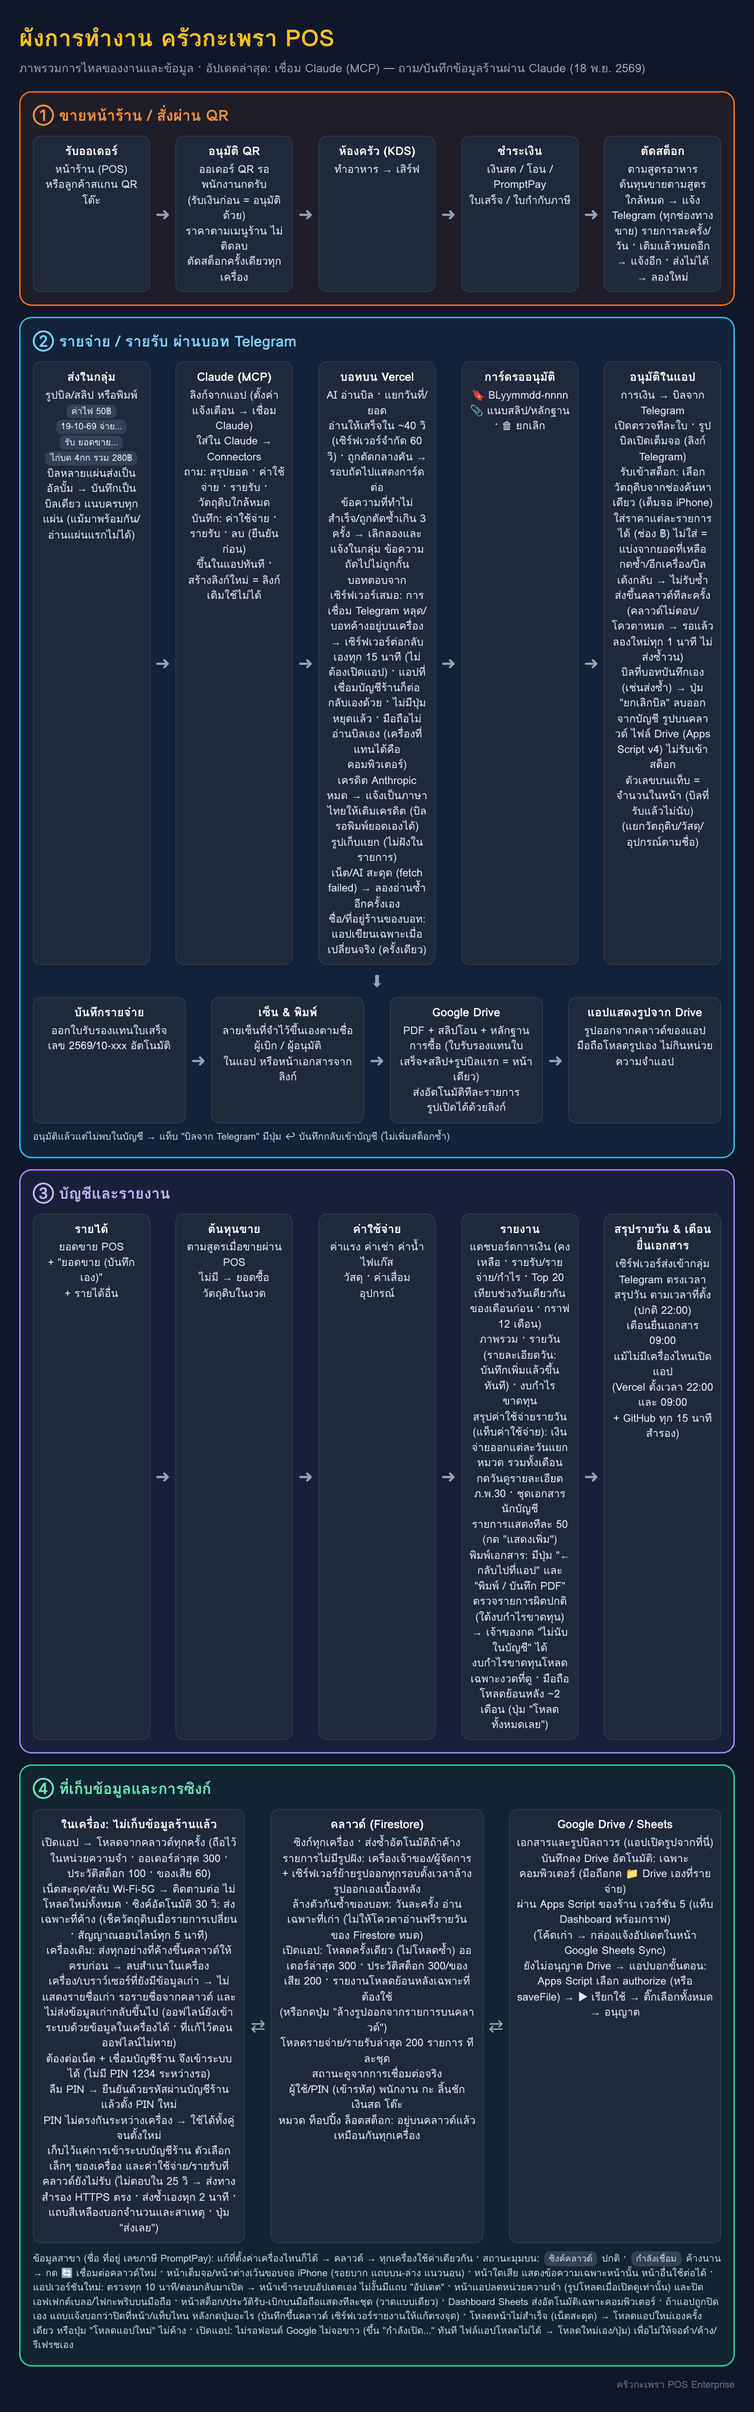
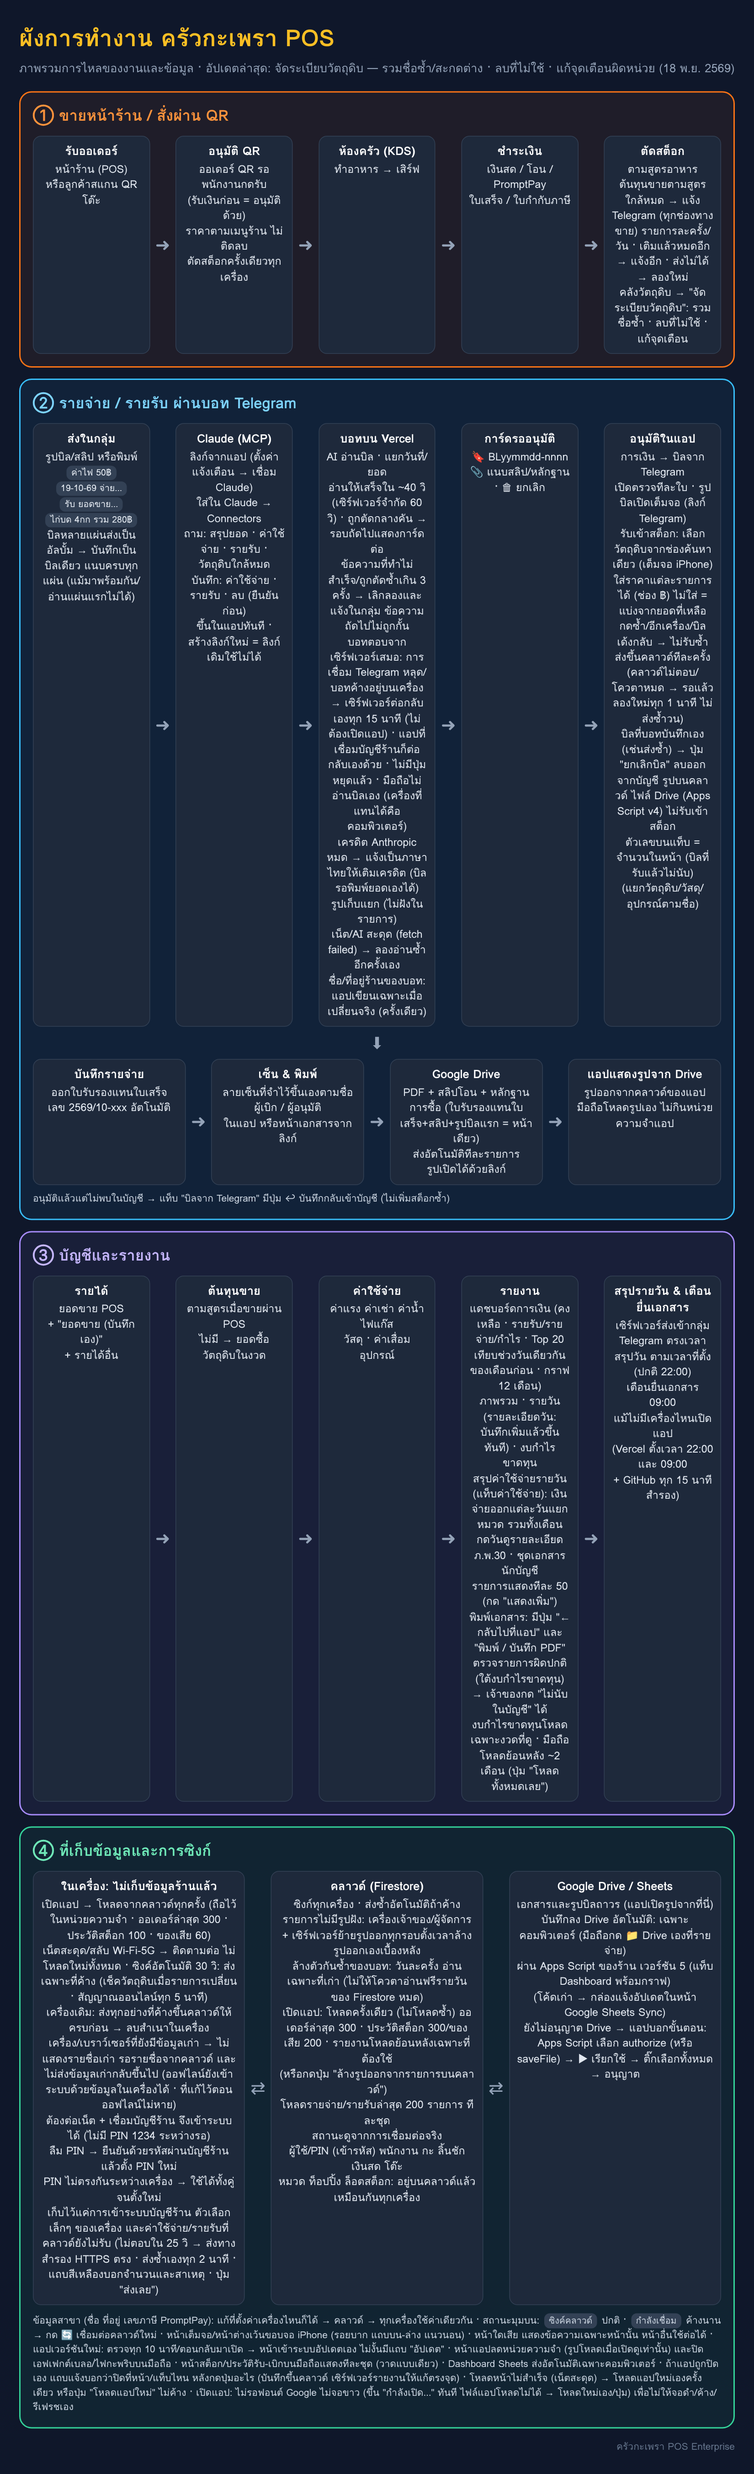
Tidy the ingredient list: merge names spelled several ways, remove unused items, fix odd alert levels
The low-stock list had 30 items, many of them sample ingredients with no
stock and the same product entered several ways from bills
(ยัวร์ไซค์/ยัวร์ไซซ์/ยัวร์ไซด์), plus alert levels that do not fit the
unit (5 g). A 'จัดระเบียบวัตถุดิบ' panel on the stock page (managers)
groups probable duplicates (one name in the other, or a few letters
apart, same kind of unit) and merges them with the existing merge
(stock added, recipes moved), lists items with no stock that no recipe,
topping or prep recipe uses to remove, and lists alert levels to fix.

Claude-Session: https://claude.ai/code/session_01Gq3UvYW4wv3hsVCXoh5wxy

diff --git a/src/components/inventory/IngredientCleanupPanel.tsx b/src/components/inventory/IngredientCleanupPanel.tsx
@@ -1,0 +1,161 @@
+import React, { useMemo, useState } from 'react';
+import { ChevronDown, GitMerge, Sparkles, Trash2 } from 'lucide-react';
+import { usePOS } from '../../context/POSContext';
+import { useKeyedList } from '../../hooks/useKeyedList';
+import type { PrepRecipe } from '../../types';
+import { duplicateGroups, oddAlertLevels, unusedIngredients, usedIngredientIds } from '../../utils/ingredientCleanup';
+
+const fmt = (n: number) => (Number.isFinite(n) ? n.toLocaleString('th-TH', { maximumFractionDigits: 2 }) : '0');
+
+/**
+ * จัดระเบียบวัตถุดิบ: names entered several ways merged into one (stock added together, recipes
+ * moved over), unused items without stock removed, and alert levels that do not fit the unit fixed.
+ */
+export const IngredientCleanupPanel: React.FC = () => {
+  const { ingredients, menuItems, addOns, mergeIngredients, deleteIngredients, updateIngredient, currentUser } = usePOS();
+  const [recipes] = useKeyedList<PrepRecipe>('prep_recipes', 'POS_PREP_RECIPES', undefined);
+  const [open, setOpen] = useState(false);
+  const [keep, setKeep] = useState<Record<string, string>>({});
+  const [picked, setPicked] = useState<Set<string>>(new Set());
+  const [alerts, setAlerts] = useState<Record<string, string>>({});
+  const [message, setMessage] = useState<{ ok: boolean; text: string } | null>(null);
+  const canEdit = currentUser?.role === 'admin' || currentUser?.role === 'manager';
+
+  const used = useMemo(() => usedIngredientIds(menuItems, addOns, recipes), [menuItems, addOns, recipes]);
+  const groups = useMemo(() => duplicateGroups(ingredients, used), [ingredients, used]);
+  const unused = useMemo(() => unusedIngredients(ingredients, used), [ingredients, used]);
+  const odd = useMemo(() => oddAlertLevels(ingredients), [ingredients]);
+  const total = groups.length + unused.length + odd.length;
+  if (!canEdit) return null;
+
+  const mergeGroup = (groupKey: string, members: typeof ingredients) => {
+    const keepId = keep[groupKey] || members[0].id;
+    const target = members.find(m => m.id === keepId)!;
+    // One at a time (each merge works from the list as it is after the one before)
+    const next = members.find(m => m.id !== keepId);
+    if (!next) return;
+    if (!window.confirm(`รวม "${next.name}" เข้ากับ "${target.name}"?\nสต็อกบวกรวมกัน สูตรเมนูที่ใช้ "${next.name}" เปลี่ยนไปใช้ "${target.name}" แล้วลบ "${next.name}"`)) return;
+    const res = mergeIngredients(target.id, next.id);
+    setMessage(res.ok ? { ok: true, text: `รวม "${next.name}" เข้ากับ "${target.name}" แล้ว${members.length > 2 ? ' (กดรวมต่อสำหรับรายการที่เหลือ)' : ''}` } : { ok: false, text: res.error || 'รวมไม่สำเร็จ' });
+  };
+
+  const removePicked = () => {
+    const ids = unused.filter(i => picked.has(i.id)).map(i => i.id);
+    if (!ids.length) return;
+    if (!window.confirm(`ลบวัตถุดิบ ${ids.length} รายการ? (ไม่มีสต็อกและไม่มีสูตรเมนูใช้)`)) return;
+    deleteIngredients(ids);
+    setPicked(new Set());
+    setMessage({ ok: true, text: `ลบวัตถุดิบที่ไม่ใช้แล้ว ${ids.length} รายการ` });
+  };
+
+  const saveAlert = (id: string) => {
+    const ing = ingredients.find(i => i.id === id);
+    const value = Number(alerts[id]);
+    if (!ing || !Number.isFinite(value) || value < 0) return;
+    updateIngredient({ ...ing, minStockAlert: value });
+    setMessage({ ok: true, text: `ตั้งจุดเตือน "${ing.name}" เป็น ${fmt(value)} ${ing.unit} แล้ว` });
+  };
+
+  return (
+    <section className="bg-slate-900 border border-amber-700/40 rounded-2xl text-xs text-slate-200" aria-label="จัดระเบียบวัตถุดิบ">
+      <button type="button" onClick={() => setOpen(o => !o)} aria-expanded={open} className="w-full p-3.5 flex items-center gap-2 text-left min-h-[48px]">
+        <Sparkles className={`w-5 h-5 ${total ? 'text-amber-400' : 'text-emerald-400'}`} />
+        <span className="flex-1 font-bold text-sm">
+          {total ? `จัดระเบียบวัตถุดิบ: ชื่อซ้ำ ${groups.length} กลุ่ม · ไม่ได้ใช้ ${unused.length} · จุดเตือนแปลก ${odd.length}` : 'รายการวัตถุดิบเรียบร้อย'}
+        </span>
+        <ChevronDown className={`w-4 h-4 transition ${open ? 'rotate-180' : ''}`} />
+      </button>
+      {open && (
+        <div className="px-3.5 pb-3.5 space-y-4">
+          {message && <div className={`p-2 rounded-lg border ${message.ok ? 'border-emerald-700/50 text-emerald-200' : 'border-rose-700/50 text-rose-200'}`}>{message.text}</div>}
+
+          {groups.length > 0 && (
+            <div className="space-y-2">
+              <div className="font-bold text-amber-200">1. ชื่อที่น่าจะเป็นของเดียวกัน (เลือกชื่อที่จะเก็บ แล้วกดรวม)</div>
+              {groups.map(g => {
+                const key = g.map(i => i.id).sort().join('|');
+                const keepId = keep[key] || g[0].id;
+                return (
+                  <div key={key} className="p-2.5 rounded-xl bg-slate-950 border border-slate-800 space-y-1.5">
+                    {g.map(i => (
+                      <label key={i.id} className="flex items-center gap-2 min-h-[32px]">
+                        <input type="radio" name={key} checked={keepId === i.id} onChange={() => setKeep(prev => ({ ...prev, [key]: i.id }))} />
+                        <span className="flex-1">{i.name}</span>
+                        <span className="font-mono text-slate-400">
+                          {fmt(i.currentStock || 0)} {i.unit}
+                        </span>
+                        {used.has(i.id) && <span className="px-1.5 rounded bg-sky-900/60 text-sky-200 text-[10px]">ใช้ในสูตร</span>}
+                      </label>
+                    ))}
+                    <button type="button" onClick={() => mergeGroup(key, g)} className="h-10 px-3 rounded-lg bg-amber-600 hover:bg-amber-500 text-slate-950 font-bold flex items-center gap-1.5">
+                      <GitMerge className="w-4 h-4" /> รวมเข้ากับรายการที่เลือก
+                    </button>
+                  </div>
+                );
+              })}
+            </div>
+          )}
+
+          {unused.length > 0 && (
+            <div className="space-y-2">
+              <div className="font-bold text-amber-200">2. ไม่มีสต็อก และไม่มีสูตรเมนูใช้ (เช่น ข้อมูลตัวอย่างเก่า)</div>
+              <div className="flex flex-wrap gap-2">
+                <button type="button" onClick={() => setPicked(new Set(unused.map(i => i.id)))} className="h-9 px-3 rounded-lg border border-slate-700">เลือกทั้งหมด</button>
+                <button type="button" onClick={() => setPicked(new Set())} className="h-9 px-3 rounded-lg border border-slate-700">ไม่เลือก</button>
+                <button type="button" disabled={!picked.size} onClick={removePicked} className="h-9 px-3 rounded-lg bg-rose-700 text-white font-bold flex items-center gap-1.5 disabled:opacity-40">
+                  <Trash2 className="w-4 h-4" /> ลบที่เลือก ({picked.size})
+                </button>
+              </div>
+              <div className="grid sm:grid-cols-2 gap-1.5">
+                {unused.map(i => (
+                  <label key={i.id} className="flex items-center gap-2 p-2 rounded-lg bg-slate-950 border border-slate-800 min-h-[40px]">
+                    <input
+                      type="checkbox"
+                      checked={picked.has(i.id)}
+                      onChange={e =>
+                        setPicked(prev => {
+                          const next = new Set(prev);
+                          if (e.target.checked) next.add(i.id);
+                          else next.delete(i.id);
+                          return next;
+                        })
+                      }
+                    />
+                    <span className="flex-1">{i.name}</span>
+                    <span className="text-slate-500">{i.unit}</span>
+                  </label>
+                ))}
+              </div>
+            </div>
+          )}
+
+          {odd.length > 0 && (
+            <div className="space-y-2">
+              <div className="font-bold text-amber-200">3. จุดเตือนไม่เข้ากับหน่วย (เช่น เตือนที่ 5 กรัม) แก้ตัวเลข หรือใส่ 0 = ไม่ต้องเตือน</div>
+              {odd.map(i => (
+                <div key={i.id} className="flex flex-wrap items-center gap-2 p-2 rounded-lg bg-slate-950 border border-slate-800">
+                  <span className="flex-1 min-w-[140px]">{i.name}</span>
+                  <span className="text-slate-400">
+                    เตือนที่ {fmt(i.minStockAlert)} {i.unit} →
+                  </span>
+                  <input
+                    type="number"
+                    inputMode="decimal"
+                    min={0}
+                    value={alerts[i.id] ?? ''}
+                    placeholder="จุดเตือนใหม่"
+                    onChange={e => setAlerts(prev => ({ ...prev, [i.id]: e.target.value }))}
+                    className="w-28 h-9 px-2 rounded-lg bg-slate-900 border border-slate-700"
+                  />
+                  <button type="button" disabled={alerts[i.id] === undefined || alerts[i.id] === ''} onClick={() => saveAlert(i.id)} className="h-9 px-3 rounded-lg bg-slate-700 font-bold disabled:opacity-40">
+                    บันทึก
+                  </button>
+                </div>
+              ))}
+            </div>
+          )}
+        </div>
+      )}
+    </section>
+  );
+};

diff --git a/src/utils/ingredientCleanup.ts b/src/utils/ingredientCleanup.ts
@@ -1,0 +1,109 @@
+import type { AddOnOption, Ingredient, MenuItem, PrepRecipe } from '../types';
+import { unitsCompatible } from './recipeUtils';
+
+/**
+ * Tidying the ingredient list: names entered several ways (บิลที่ AI อ่าน สะกดต่างกัน), sample or
+ * unused items with no stock, and alert levels that do not fit the unit. They made the low-stock
+ * alerts and the stock pages long and noisy.
+ */
+
+const norm = (s: string) => (s || '').toLowerCase().replace(/[\s().,\-_/'"*+]/g, '');
+
+/** Edit distance (characters), stopped early above `max` */
+function distance(a: string, b: string, max: number): number {
+  if (Math.abs(a.length - b.length) > max) return max + 1;
+  let prev = Array.from({ length: b.length + 1 }, (_, i) => i);
+  for (let i = 1; i <= a.length; i++) {
+    const cur = [i];
+    let best = i;
+    for (let j = 1; j <= b.length; j++) {
+      cur[j] = Math.min(prev[j] + 1, cur[j - 1] + 1, prev[j - 1] + (a[i - 1] === b[j - 1] ? 0 : 1));
+      if (cur[j] < best) best = cur[j];
+    }
+    if (best > max) return max + 1;
+    prev = cur;
+  }
+  return prev[b.length];
+}
+
+/** Probably the same thing: one name inside the other, or a few letters apart (typos) */
+export function similarNames(a: string, b: string): boolean {
+  const na = norm(a);
+  const nb = norm(b);
+  if (na.length < 3 || nb.length < 3) return false;
+  if (na === nb) return true;
+  const shorter = Math.min(na.length, nb.length);
+  if (shorter >= 4 && (na.includes(nb) || nb.includes(na))) return true;
+  // About one letter in eight may differ (ยัวร์ไซค์ / ยัวร์ไซซ์ / ยัวร์ไซด์)
+  const allowed = Math.max(1, Math.floor(Math.max(na.length, nb.length) / 8));
+  return shorter >= 6 && distance(na, nb, allowed) <= allowed;
+}
+
+/** Ids every recipe, topping and prep recipe uses */
+export function usedIngredientIds(menuItems: MenuItem[], addOns: AddOnOption[], prepRecipes: PrepRecipe[] = []): Set<string> {
+  const used = new Set<string>();
+  for (const m of menuItems) {
+    (m.recipe || []).forEach(r => used.add(r.ingredientId));
+    (m.availableProteins || []).forEach(p => {
+      (p.recipe || []).forEach(r => used.add(r.ingredientId));
+      (p.replacesIngredientIds || []).forEach(id => used.add(id));
+    });
+  }
+  for (const a of addOns) {
+    if (a.ingredientId) used.add(a.ingredientId);
+    (a.recipe || []).forEach(r => used.add(r.ingredientId));
+  }
+  for (const p of prepRecipes) {
+    used.add(p.outputIngredientId);
+    p.inputs.forEach(i => used.add(i.ingredientId));
+  }
+  return used;
+}
+
+/**
+ * Groups of ingredients that are probably the same, each with the one to keep first: the one
+ * recipes use, else the one with more stock, else the shortest name
+ */
+export function duplicateGroups(ingredients: Ingredient[], used: Set<string> = new Set()): Ingredient[][] {
+  const parent = ingredients.map((_, i) => i);
+  const find = (i: number): number => (parent[i] === i ? i : (parent[i] = find(parent[i])));
+  for (let i = 0; i < ingredients.length; i++) {
+    for (let j = i + 1; j < ingredients.length; j++) {
+      const a = ingredients[i];
+      const b = ingredients[j];
+      if (unitsCompatible(a.unit, b.unit) && similarNames(a.name, b.name)) parent[find(i)] = find(j);
+    }
+  }
+  const groups = new Map<number, Ingredient[]>();
+  ingredients.forEach((ing, i) => {
+    const root = find(i);
+    groups.set(root, [...(groups.get(root) || []), ing]);
+  });
+  const rank = (i: Ingredient) => [used.has(i.id) ? 0 : 1, -(i.currentStock || 0), norm(i.name).length] as const;
+  return [...groups.values()]
+    .filter(g => g.length > 1)
+    .map(g =>
+      [...g].sort((x, y) => {
+        const a = rank(x);
+        const b = rank(y);
+        return a[0] - b[0] || a[1] - b[1] || a[2] - b[2];
+      })
+    );
+}
+
+/** No stock and used by no recipe, topping or prep recipe: safe to remove */
+export function unusedIngredients(ingredients: Ingredient[], used: Set<string>): Ingredient[] {
+  return ingredients.filter(i => !used.has(i.id) && !((i.currentStock || 0) > 0));
+}
+
+/** Alert levels that do not fit the unit (5 g of washing powder, 5 ml for a measuring jug) */
+export function oddAlertLevels(ingredients: Ingredient[]): Ingredient[] {
+  return ingredients.filter(i => {
+    const alert = Number(i.minStockAlert) || 0;
+    if (alert <= 0) return false;
+    const unit = (i.unit || '').toLowerCase();
+    if (unit === 'g' || unit === 'ml') return alert < 50;
+    if (unit === 'kg' || unit === 'l') return alert > 100;
+    return false;
+  });
+}

diff --git a/docs/workflow/flow.html b/docs/workflow/flow.html
@@ -17,7 +17,7 @@ h1{margin:0 0 4px;font-size:34px;color:#fbbf24}.sub{color:#94a3b8;font-size:17px
 .foot{color:#64748b;font-size:14px;margin-top:6px;text-align:right}
 </style></head><body>
 <h1>ผังการทำงาน ครัวกะเพรา POS</h1>
-<div class="sub">ภาพรวมการไหลของงานและข้อมูล · อัปเดตล่าสุด: เชื่อม Claude (MCP) — ถาม/บันทึกข้อมูลร้านผ่าน Claude (18 พ.ย. 2569)</div>
+<div class="sub">ภาพรวมการไหลของงานและข้อมูล · อัปเดตล่าสุด: จัดระเบียบวัตถุดิบ — รวมชื่อซ้ำ/สะกดต่าง · ลบที่ไม่ใช้ · แก้จุดเตือนผิดหน่วย (18 พ.ย. 2569)</div>
 
 <div class="lane pos"><h2>① ขายหน้าร้าน / สั่งผ่าน QR</h2>
 <div class="row">
@@ -25,7 +25,7 @@ h1{margin:0 0 4px;font-size:34px;color:#fbbf24}.sub{color:#94a3b8;font-size:17px
 <div class="box"><b>อนุมัติ QR</b>ออเดอร์ QR รอพนักงานกดรับ<br>(รับเงินก่อน = อนุมัติด้วย)<br>ราคาตามเมนูร้าน ไม่ติดลบ<br>ตัดสต็อกครั้งเดียวทุกเครื่อง</div><div class="ar">➜</div>
 <div class="box"><b>ห้องครัว (KDS)</b>ทำอาหาร → เสิร์ฟ</div><div class="ar">➜</div>
 <div class="box"><b>ชำระเงิน</b>เงินสด / โอน / PromptPay<br>ใบเสร็จ / ใบกำกับภาษี</div><div class="ar">➜</div>
-<div class="box"><b>ตัดสต็อก</b>ตามสูตรอาหาร<br>ต้นทุนขายตามสูตร<br>ใกล้หมด → แจ้ง Telegram (ทุกช่องทางขาย) รายการละครั้ง/วัน · เติมแล้วหมดอีก → แจ้งอีก · ส่งไม่ได้ → ลองใหม่</div>
+<div class="box"><b>ตัดสต็อก</b>ตามสูตรอาหาร<br>ต้นทุนขายตามสูตร<br>ใกล้หมด → แจ้ง Telegram (ทุกช่องทางขาย) รายการละครั้ง/วัน · เติมแล้วหมดอีก → แจ้งอีก · ส่งไม่ได้ → ลองใหม่<br>คลังวัตถุดิบ → "จัดระเบียบวัตถุดิบ": รวมชื่อซ้ำ · ลบที่ไม่ใช้ · แก้จุดเตือน</div>
 </div></div>
 
 <div class="lane tg"><h2>② รายจ่าย / รายรับ ผ่านบอท Telegram</h2>

diff --git a/src/utils/__tests__/ingredientCleanup.test.ts b/src/utils/__tests__/ingredientCleanup.test.ts
@@ -1,0 +1,28 @@
+import { describe, expect, it } from 'vitest';
+import { duplicateGroups, oddAlertLevels, similarNames, unusedIngredients, usedIngredientIds } from '../ingredientCleanup';
+
+const ing = (id: string, name: string, unit = 'pcs', currentStock = 0, minStockAlert = 5) => ({ id, name, unit, currentStock, minStockAlert, unitCost: 0, category: 'x' }) as any;
+
+describe('tidying the ingredient list', () => {
+  it('finds names spelled several ways', () => {
+    expect(similarNames('แม็กซ์โมนิคยัวร์ไซค์6R', 'แม็กซ์โมนิคยัวร์ไซซ์6R')).toBe(true);
+    expect(similarNames('แม็กซ์โมนิคแฮนด์60S X4', 'แม็กซ์โมนิแฮนด์60S X4')).toBe(true);
+    expect(similarNames('ไข่ไก่เบอร์3-4', 'ไข่ไก่เบอร์ 3-4')).toBe(true);
+    expect(similarNames('หมูสับ', 'หมูกรอบ')).toBe(false);
+    expect(similarNames('น้ำมันพืช', 'น้ำปลา')).toBe(false);
+  });
+
+  it('groups them with the one recipes use first, and keeps different units apart', () => {
+    const list = [ing('a', 'แม็กซ์โมนิคยัวร์ไซค์6R'), ing('b', 'แม็กซ์โมนิค์ยัวร์ไซค์6R'), ing('c', 'แม็กซ์โมนิคยัวร์ไซด์6R', 'pcs', 1), ing('d', 'ไข่ไก่'), ing('e', 'ไข่ไก่', 'kg')];
+    const groups = duplicateGroups(list, new Set(['b']));
+    expect(groups).toHaveLength(1);
+    expect(groups[0].map(i => i.id)).toEqual(['b', 'c', 'a']);
+  });
+
+  it('lists unused items without stock, and alert levels that do not fit the unit', () => {
+    const list = [ing('used', 'ข้าว', 'kg', 0), ing('stock', 'ถุง', 'pcs', 3), ing('gone', 'วากิว', 'g', 0, 1000), ing('soap', 'ผงซักฟอก', 'g', 100, 5)];
+    const used = usedIngredientIds([{ recipe: [{ ingredientId: 'used', amountNeeded: 1 }] } as any], []);
+    expect(unusedIngredients(list, used).map(i => i.id)).toEqual(['gone']);
+    expect(oddAlertLevels(list).map(i => i.id)).toEqual(['soap']);
+  });
+});

diff --git a/src/components/inventory/InventoryView.tsx b/src/components/inventory/InventoryView.tsx
@@ -1,4 +1,5 @@
 import React, { useEffect, useMemo, useState } from 'react';
+import { IngredientCleanupPanel } from './IngredientCleanupPanel';
 import { useNarrowScreen } from '../../hooks/useNarrowScreen';
 import { onPageSectionRequest, takePageSection } from '../../utils/pageNav';
 import { STOCK_TYPES, misfiledStock, stockTypeLabel, stockTypeOf, stockValueByType, isLowStock } from '../../utils/stockTypes';
@@ -998,6 +999,7 @@ export const InventoryView: React.FC = () => {
         {/* สต็อก: what is left, receiving and taking out */}
         {activeTab === 'stock' && (
           <div className="space-y-4">
+            <IngredientCleanupPanel />
             {/* Kinds of stock */}
             <div className="grid grid-cols-2 lg:grid-cols-4 gap-2" role="tablist" aria-label="ประเภทสต็อก">
               {([['all', 'ทั้งหมด', ingredients.length, null, 'รวมทุกประเภท'] as const, ...STOCK_TYPES.map(t => [t.id, t.label, stockTypeTotals[t.id].items, stockTypeTotals[t.id].value, t.hint] as const)]).map(
